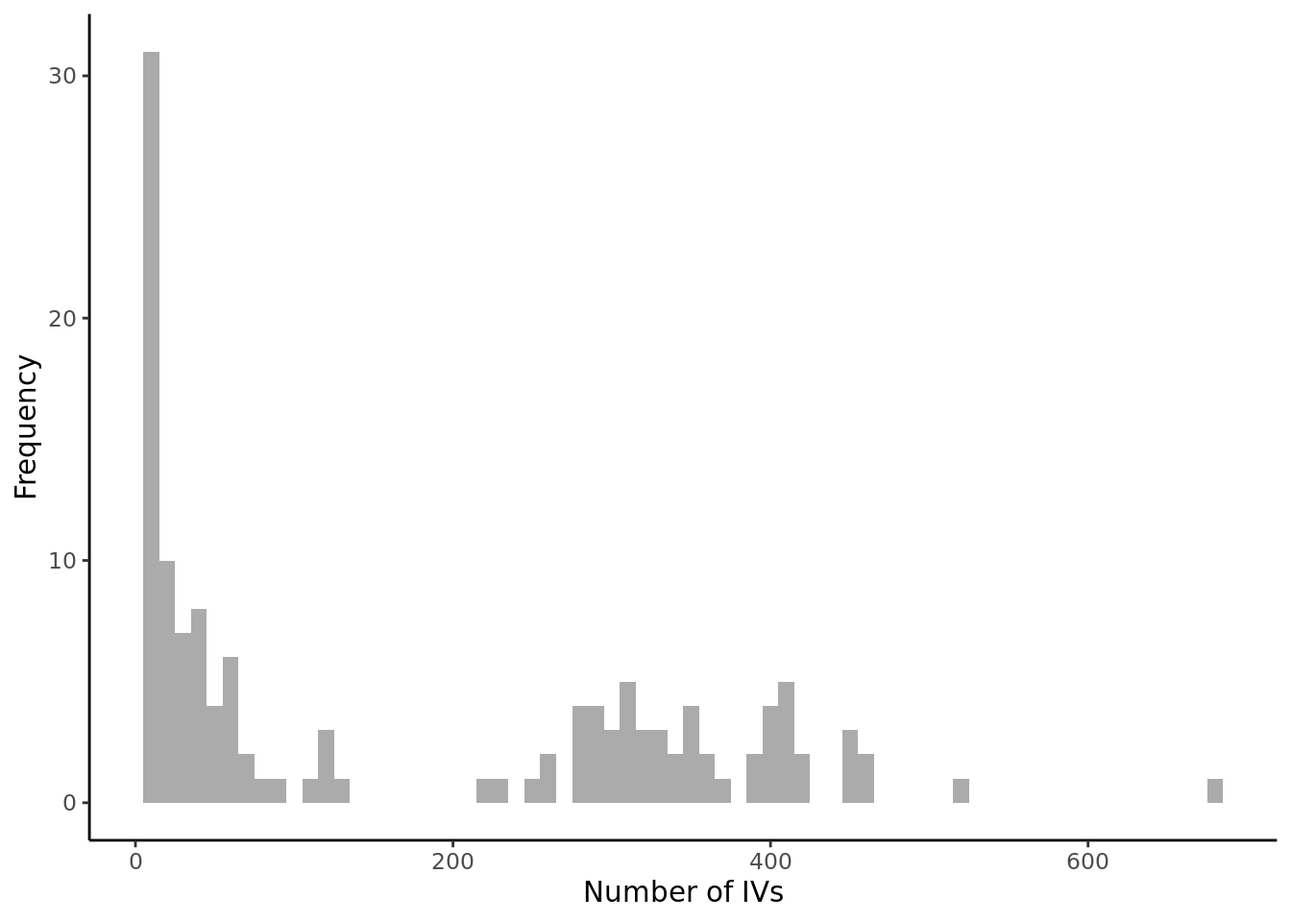
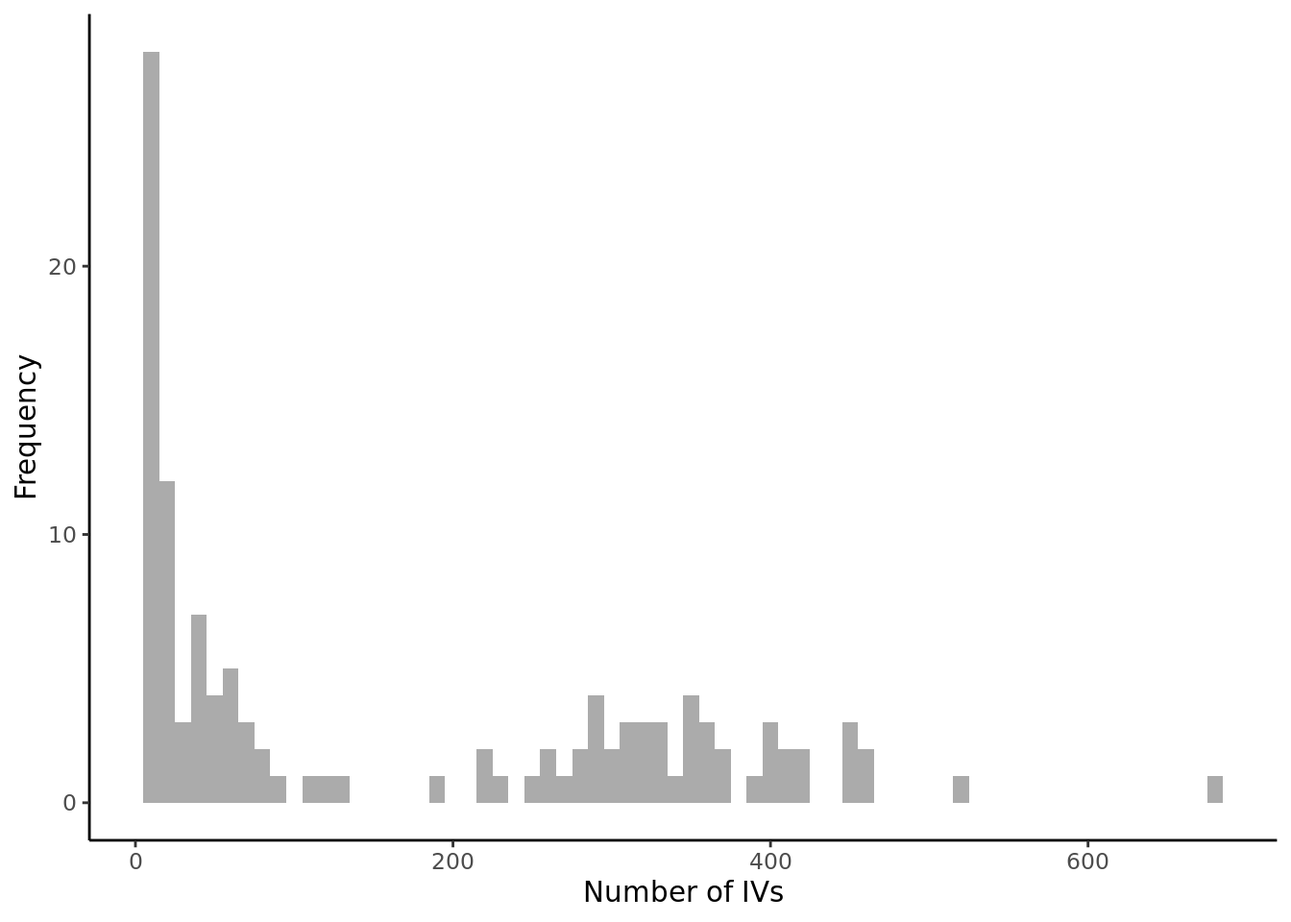
Build site.

diff --git a/docs/final_phenotype_list.html b/docs/final_phenotype_list.html
@@ -15,7 +15,7 @@
 
 <title>Final phenotype list</title>
 
-<script src="site_libs/jquery-3.5.1/jquery.min.js"></script>
+<script src="site_libs/jquery-3.6.0/jquery-3.6.0.min.js"></script>
 <meta name="viewport" content="width=device-width, initial-scale=1" />
 <link href="site_libs/bootstrap-3.3.5/css/flatly.min.css" rel="stylesheet" />
 <script src="site_libs/bootstrap-3.3.5/js/bootstrap.min.js"></script>
@@ -397,7 +397,7 @@ div.tocify {
 <div class="tab-content">
 <div id="summary" class="tab-pane fade in active">
   <p>
-<strong>Last updated:</strong> 2021-09-14
+<strong>Last updated:</strong> 2022-04-20
 </p>
   <p>
 <strong>Checks:</strong> <span class="glyphicon glyphicon-ok text-success" aria-hidden="true"></span> 7 <span class="glyphicon glyphicon-exclamation-sign text-danger" aria-hidden="true"></span> 0
@@ -495,10 +495,10 @@ This reproducible <a href="http://rmarkdown.rstudio.com">R Markdown</a> analysis
 <div class="panel panel-default">
 <div class="panel-heading">
 <p class="panel-title">
-<a data-toggle="collapse" data-parent="#workflowr-checks" href="#strongRepositoryversionstrongahrefhttpsgithubcomjennysjaardaproxyMRtree5afdbdc048a5ca1c87d7d67d85fd9978055ba868targetblank5afdbdca"> <span class="glyphicon glyphicon-ok text-success" aria-hidden="true"></span> <strong>Repository version:</strong> <a href="https://github.com/jennysjaarda/proxyMR/tree/5afdbdc048a5ca1c87d7d67d85fd9978055ba868" target="_blank">5afdbdc</a> </a>
+<a data-toggle="collapse" data-parent="#workflowr-checks" href="#strongRepositoryversionstrongahrefhttpsgithubcomjennysjaardaproxyMRtree49861482c129feb54e1241603a9bccdcc2283c78targetblank4986148a"> <span class="glyphicon glyphicon-ok text-success" aria-hidden="true"></span> <strong>Repository version:</strong> <a href="https://github.com/jennysjaarda/proxyMR/tree/49861482c129feb54e1241603a9bccdcc2283c78" target="_blank">4986148</a> </a>
 </p>
 </div>
[2 lines of base64/hex data omitted]
 <div class="panel-body">
   
 <p>
@@ -506,7 +506,7 @@ Great! You are using Git for version control. Tracking code development and conn
 </p>
 
 <p>
-The results in this page were generated with repository version <a href="https://github.com/jennysjaarda/proxyMR/tree/5afdbdc048a5ca1c87d7d67d85fd9978055ba868" target="_blank">5afdbdc</a>. See the <em>Past versions</em> tab to see a history of the changes made to the R Markdown and HTML files.
+The results in this page were generated with repository version <a href="https://github.com/jennysjaarda/proxyMR/tree/49861482c129feb54e1241603a9bccdcc2283c78" target="_blank">4986148</a>. See the <em>Past versions</em> tab to see a history of the changes made to the R Markdown and HTML files.
 </p>
 
 <p>
@@ -517,17 +517,20 @@ Note that you need to be careful to ensure that all relevant files for the analy
 Ignored files:
     Ignored:    .Rhistory
     Ignored:    .Rproj.user/
-    Ignored:    FP_data.RData
     Ignored:    _targets/
+    Ignored:    analysis/_site.yml_cp
     Ignored:    analysis/bgenie_GWAS/
     Ignored:    analysis/data_setup/
+    Ignored:    analysis/download_Neale_list.csv
     Ignored:    analysis/process_Neale.out
     Ignored:    analysis/traitMR/
+    Ignored:    data/Neale_SGG_directory_11_02_2022.csv
     Ignored:    data/Neale_SGG_directory_12_07_2021.csv
     Ignored:    data/Neale_SGG_directory_15_07_2021.csv
+    Ignored:    data/PHESANT_file_directory_05_10_2021.txt
+    Ignored:    data/UKBB_pheno_directory_05_10_2021.csv
     Ignored:    data/processed/
     Ignored:    data/raw/
-    Ignored:    household_MR_exhaustive_summary.rds
     Ignored:    output/figures/
     Ignored:    output/tables/traitMR/
     Ignored:    proxyMR_comparison.RData
@@ -674,20 +677,14 @@ Ignored files:
     Ignored:    proxymr_9_clustermq.out
     Ignored:    renv/library/
     Ignored:    renv/staging/
-    Ignored:    traits_corr2_update.rds
-
-Untracked files:
-    Untracked:  Rplots.pdf
-    Untracked:  analysis/figures_scratch.Rmd
-    Untracked:  analysis/group_meeting_pres_figures_080921.Rmd
-    Untracked:  analysis/latex_test2.Rmd
-    Untracked:  output/tables/household_correlations.final_filter.csv
 
 Unstaged changes:
-    Modified:   analysis/update_meeting_06_09_2021.Rmd
-    Modified:   analysis/update_meeting_25_08_2021.Rmd
-    Modified:   output/tables/define_Neale_categories.csv
-    Modified:   output/tables/define_Neale_categories_filled.csv
+    Modified:   analysis/AM_MR_summary.Rmd
+    Modified:   output/tables/household_correlations.final_filter.csv
+    Modified:   renv.lock
+
+Staged changes:
+    Modified:   analysis/manuscript.Rmd
 
 </code></pre>
 
@@ -730,6 +727,23 @@ Message
 <tbody>
 <tr>
 <td>
+html
+</td>
+<td>
+<a href="https://rawcdn.githack.com/jennysjaarda/proxyMR/70b6430a77f90eeb818d8801626c6291c5441b34/docs/final_phenotype_list.html" target="_blank">70b6430</a>
+</td>
+<td>
+Jenny Sjaarda
+</td>
+<td>
+2021-09-14
+</td>
+<td>
+Build site.
+</td>
+</tr>
+<tr>
+<td>
 Rmd
 </td>
 <td>
@@ -763,10 +777,10 @@ update some docs
 
 
 
-<p>After <a href="phenotype_selection.html">phenotype selection</a>, 131 traits remained for downstream analyses.</p>
+<p>After <a href="phenotype_selection.html">phenotype selection</a>, 118 traits remained for downstream analyses.</p>
 <p>The final set of traits and some basic properties of interest can be seen in the table below.</p>
 <div id="htmlwidget-3b7a1c78308eb781be0a" style="width:100%;height:auto;" class="datatables html-widget"></div>
-<script type="application/json" data-for="htmlwidget-3b7a1c78308eb781be0a">{"x":{"filter":"none","data":[["1","2","3","4","5","6","7","8","9","10","11","12","13","14","15","16","17","18","19","20","21","22","23","24","25","26","27","28","29","30","31","32","33","34","35","36","37","38","39","40","41","42","43","44","45","46","47","48","49","50","51","52","53","54","55","56","57","58","59","60","61","62","63","64","65","66","67","68","69","70","71","72","73","74","75","76","77","78","79","80","81","82","83","84","85","86","87","88","89","90","91","92","93","94","95","96","97","98","99","100","101","102","103","104","105","106","107","108","109","110","111","112","113","114","115","116","117","118","119","120","121","122","123","124","125","126","127","128","129","130","131"],["100630","100720","102280","102290","102440","102830","102840","1050","1060","1070","1080","1100","1110","1160","1180","1190","12340_irnt","1239","1249","1289","129_irnt","1299","130_irnt","1309","1319","1329","1339","1349","1369","137","1379","1389","1408","1438_irnt","1458","1478","1488_irnt","1498","1528","1548","1558","1568","1588","1628","1697","20015_irnt","20016_irnt","20023_irnt","20150_irnt","20151_irnt","20153_irnt","20154_irnt","2050","2080","21001_irnt","2149","2178","22146_irnt","2237","22702_irnt","22704_irnt","23099_irnt","23100_irnt","23101_irnt","23102_irnt","23104_irnt","23105_irnt","23106_irnt","23107_irnt","23109_irnt","23110_irnt","23111_irnt","23112_irnt","23113_irnt","23114_irnt","23115_irnt","23116_irnt","23117_irnt","23118_irnt","23119_irnt","23120_irnt","23121_irnt","23122_irnt","23123_irnt","23124_irnt","23125_irnt","23126_irnt","23128_irnt","23129_irnt","23130_irnt","2966_irnt","2976_irnt","30000_irnt","30010_irnt","30020_irnt","30030_irnt","30040_irnt","30050_irnt","30060_irnt","30070_irnt","30120_irnt","30140_irnt","30160","30220_irnt","30240_irnt","30250_irnt","30260_irnt","30270_irnt","30280_irnt","30290_irnt","30300_irnt","3062_irnt","3063_irnt","400_irnt","404_irnt","4080_irnt","4290_irnt","46_irnt","47_irnt","49_irnt","50_irnt","738","806","816","845","864","874_irnt","884","904","924","943"],["Rose wine intake","Fortified wine intake","Milk chocolate intake","Dark chocolate intake","Unsalted nuts intake","Soft cheese intake","Blue cheese intake","Time spend outdoors in summer","Time spent outdoors in winter","Time spent watching television (TV)","Time spent using computer","Drive faster than motorway speed limit","Length of mobile phone use","Sleep duration","Morning/evening person (chronotype)","Nap during day","QRS duration","Current tobacco smoking","Past tobacco smoking","Cooked vegetable intake","Place of birth in UK - north co-ordinate","Salad / raw vegetable intake","Place of birth in UK - east co-ordinate","Fresh fruit intake","Dried fruit intake","Oily fish intake","Non-oily fish intake","Processed meat intake","Beef intake","Number of treatments/medications taken","Lamb/mutton intake","Pork intake","Cheese intake","Bread intake","Cereal intake","Salt added to food","Tea intake","Coffee intake","Water intake","Variation in diet","Alcohol intake frequency.","Average weekly red wine intake","Average weekly beer plus cider intake","Alcohol intake versus 10 years previously","Comparative height size at age 10","Sitting height","Fluid intelligence score","Mean time to correctly identify matches","Forced expiratory volume in 1-second (FEV1), Best measure","Forced vital capacity (FVC), Best measure","Forced expiratory volume in 1-second (FEV1), predicted","Forced expiratory volume in 1-second (FEV1), predicted percentage","Frequency of depressed mood in last 2 weeks","Frequency of tiredness / lethargy in last 2 weeks","Body mass index (BMI)","Lifetime number of sexual partners","Overall health rating","Age hayfever or allergic rhinitis diagnosed by doctor","Plays computer games","Home location - east co-ordinate (rounded)","Home location - north co-ordinate (rounded)","Body fat percentage","Whole body fat mass","Whole body fat-free mass","Whole body water mass","Body mass index (BMI)","Basal metabolic rate","Impedance of whole body","Impedance of leg (right)","Impedance of arm (right)","Impedance of arm (left)","Leg fat percentage (right)","Leg fat mass (right)","Leg fat-free mass (right)","Leg predicted mass (right)","Leg fat percentage (left)","Leg fat mass (left)","Leg fat-free mass (left)","Leg predicted mass (left)","Arm fat percentage (right)","Arm fat mass (right)","Arm fat-free mass (right)","Arm predicted mass (right)","Arm fat percentage (left)","Arm fat mass (left)","Arm fat-free mass (left)","Arm predicted mass (left)","Trunk fat mass","Trunk fat-free mass","Trunk predicted mass","Age high blood pressure diagnosed","Age diabetes diagnosed","White blood cell (leukocyte) count","Red blood cell (erythrocyte) count","Haemoglobin concentration","Haematocrit percentage","Mean corpuscular volume","Mean corpuscular haemoglobin","Mean corpuscular haemoglobin concentration","Red blood cell (erythrocyte) distribution width","Lymphocyte count","Neutrophill count","Basophill count","Basophill percentage","Reticulocyte percentage","Reticulocyte count","Mean reticulocyte volume","Mean sphered cell volume","Immature reticulocyte fraction","High light scatter reticulocyte percentage","High light scatter reticulocyte count","Forced vital capacity (FVC)","Forced expiratory volume in 1-second (FEV1)","Time to complete round","Duration to first press of snap-button in each round","Systolic blood pressure, automated reading","Duration screen displayed","Hand grip strength (left)","Hand grip strength (right)","Hip circumference","Standing height","Average total household income before tax","Job involves mainly walking or standing","Job involves heavy manual or physical work","Age completed full time education","Number of days/week walked 10+ minutes","Duration of walks","Number of days/week of moderate physical activity 10+ minutes","Number of days/week of vigorous physical activity 10+ minutes","Usual walking pace","Frequency of stair climbing in last 4 weeks"],["ordinal","ordinal","ordinal","ordinal","ordinal","ordinal","ordinal","ordinal","ordinal","ordinal","ordinal","ordinal","ordinal","ordinal","ordinal","ordinal","continuous_irnt","ordinal","ordinal","ordinal","continuous_irnt","ordinal","continuous_irnt","ordinal","ordinal","ordinal","ordinal","ordinal","ordinal","ordinal","ordinal","ordinal","ordinal","continuous_irnt","ordinal","ordinal","continuous_irnt","ordinal","ordinal","ordinal","ordinal","ordinal","ordinal","ordinal","ordinal","continuous_irnt","continuous_irnt","continuous_irnt","continuous_irnt","continuous_irnt","continuous_irnt","continuous_irnt","ordinal","ordinal","continuous_irnt","ordinal","ordinal","continuous_irnt","ordinal","continuous_irnt","continuous_irnt","continuous_irnt","continuous_irnt","continuous_irnt","continuous_irnt","continuous_irnt","continuous_irnt","continuous_irnt","continuous_irnt","continuous_irnt","continuous_irnt","continuous_irnt","continuous_irnt","continuous_irnt","continuous_irnt","continuous_irnt","continuous_irnt","continuous_irnt","continuous_irnt","continuous_irnt","continuous_irnt","continuous_irnt","continuous_irnt","continuous_irnt","continuous_irnt","continuous_irnt","continuous_irnt","continuous_irnt","continuous_irnt","continuous_irnt","continuous_irnt","continuous_irnt","continuous_irnt","continuous_irnt","continuous_irnt","continuous_irnt","continuous_irnt","continuous_irnt","continuous_irnt","continuous_irnt","continuous_irnt","continuous_irnt","ordinal","continuous_irnt","continuous_irnt","continuous_irnt","continuous_irnt","continuous_irnt","continuous_irnt","continuous_irnt","continuous_irnt","continuous_irnt","continuous_irnt","continuous_irnt","continuous_irnt","continuous_irnt","continuous_irnt","continuous_irnt","continuous_irnt","continuous_irnt","continuous_irnt","ordinal","ordinal","ordinal","ordinal","ordinal","continuous_irnt","ordinal","ordinal","ordinal","ordinal"],["diet","diet","diet","diet","diet","diet","diet","lifestyle","lifestyle","lifestyle","lifestyle","lifestyle","lifestyle","lifestyle","lifestyle","lifestyle","disease_proxy","lifestyle","lifestyle","diet","lifestyle","diet","lifestyle","diet","diet","diet","diet","diet","diet","disease_proxy","diet","diet","diet","diet","diet","diet","diet","diet","diet","diet","lifestyle","lifestyle","lifestyle","lifestyle","body","body","lifestyle","lifestyle","disease_proxy","disease_proxy","disease_proxy","disease_proxy","disease_proxy","disease_proxy","body","lifestyle","disease_proxy","disease","lifestyle","lifestyle","lifestyle","body","body","body","body","body","body","body","body","body","body","body","body","body","body","body","body","body","body","body","body","body","body","body","body","body","body","body","body","body","disease_proxy","disease_proxy","disease_proxy","disease_proxy","disease_proxy","diet","disease_proxy","disease_proxy","disease_proxy","disease_proxy","disease_proxy","disease_proxy","disease_proxy","disease_proxy","disease_proxy","disease_proxy","disease_proxy","disease_proxy","disease_proxy","disease_proxy","disease_proxy","disease_proxy","disease_proxy","lifestyle","lifestyle","disease_proxy","lifestyle","body","body","body","body","lifestyle","lifestyle","lifestyle","lifestyle","lifestyle","lifestyle","lifestyle","lifestyle","lifestyle","lifestyle"],["8266","8263","8266","8262","8266","8266","8265","63421","48288","69054","44952","62981","73227","74394","59982","74999","4337","74967","67775","71947","70512","66618","70512","70065","62958","74380","74578","74862","74640","75023","74332","74404","72053","72442","69566","75023","71223","65309","63582","74710","74961","47796","47883","66977","72928","74763","23514","74195","44547","44547","8551","8551","69172","70811","74679","55186","74646","463","74991","75030","75030","72713","72624","72766","72773","72773","72771","72762","72772","72764","72768","72772","72771","72770","72769","72767","72766","72755","72751","72750","72746","72739","72737","72732","72720","72718","72713","72695","72658","72640","5359","259","71229","71230","71230","71230","71229","71229","71229","71229","71093","71093","71093","71094","69894","69894","69894","69894","69894","69894","69894","63050","63050","72750","74212","69456","24470","74516","74519","74836","74795","57142","30873","30878","43220","72429","54753","67886","68049","74257","73883"],["0.0922840196558126","0.117490113415998","0.016448677911766","0.0122090287587049","0.0273976995326816","0.0546145108132133","0.0302172689201366","0.0440683222461897","0.0120051627350722","0.129825001160989","0.0125246024046728","0.0187449993281087","0.0625707302134609","0.0127972727883262","0.01425408442136","0.0104574353443531","0.0134064379178707","0.0636624641341572","0.0383202867752661","0.0748037860421296","0.352473183620446","0.0418105785288404","0.225352581182096","0.0281029415049592","0.0759092214206806","0.123070394530199","0.0852869788808505","0.0378878019518565","0.168419493974539","0.033551042889334","0.191519972984346","0.142826364736203","0.0747211020577854","0.0212530071271025","0.103270437138124","0.0528767417660657","0.0650138361750729","0.0334613827899832","0.0174435467901","0.0103177556218652","0.203123146225791","0.156427242826228","0.0273032385764867","0.0648581910332382","0.0141027357765363","0.0904659619144025","0.0401023930142044","0.0132159343461819","0.0265670457094765","0.0649999449419508","0.159486660443171","0.0146269683049709","0.0110949575262655","0.0138952453280985","0.0532009744433723","0.198035049644089","0.0223562096868708","0.0204638169733123","0.0365904923896149","0.977793232140547","0.981565376386421","0.0862932917570949","0.0327713034522631","0.29526834350323","0.29391301202521","0.0526905979431931","0.245757929388727","0.149838284013783","0.0131211592746428","0.229960581564538","0.226871771736116","0.262013668131244","0.0455950935166192","0.251587603289365","0.258046697196772","0.276074940531636","0.0544875850980536","0.251698761864576","0.258264238755764","0.107622830199054","0.0281970583422085","0.30911824088257","0.311923156630442","0.114298096231511","0.0278932036249803","0.291706457370028","0.294895411774078","0.0579630640038957","0.310296563759527","0.312891210601963","0.0434473980724707","0.0979116988534587","0.0248025544171646","0.033795274610522","0.0934064689546379","0.0563069866077741","0.0211184511959847","0.0161644371907621","0.205196824250338","0.0107097251874439","0.0157318936970288","0.0151287214851749","0.220149529744413","0.0104615919302693","0.0321747064983078","0.023004561391709","0.0399750378840475","0.0853116406106133","0.0387788311200344","0.0264611481188514","0.0215202418421699","0.054510347693815","0.0225419373910677","0.0158938650290012","0.0133566202689238","0.0173848889412798","0.0239575118599313","0.185612968103578","0.179894822761125","0.0349104652048477","0.141196564794588","0.778734939731751","0.0198111014378687","0.0160063292727281","0.104070759384423","0.0343353867950446","0.0283178015919158","0.0121852720425099","0.0230259771453837","0.0106746216537824","0.165005837731399"],[0.303782849509008,0.342768308651774,0.128252399243702,0.110494473883108,0.165522504610949,0.233697477122055,0.1738311506035,0.209924563227341,0.109568073520858,0.360312366095016,0.111913370088979,0.136912378286657,0.250141420427447,0.113125031661106,0.119390470395924,0.102261602492593,0.115786173258601,0.252314217067048,0.195755681335858,0.273502808106479,0.593694520456814,0.204476352003943,0.474713156740042,0.16763931968652,0.275516281589093,0.350813902988748,0.292039344748016,0.194647892235843,0.410389441840965,0.183169437650865,0.437629949825587,0.377923755189063,0.273351608844333,0.145784111367126,0.321357180000889,0.229949433063153,0.254978109207581,0.182924527578953,0.132074020117887,0.101576353655096,0.450691852850471,0.395508840389476,0.16523691650623,0.254672713562404,0.118754940008979,0.300775600596861,0.200255818927202,0.114960577356683,0.162994005133552,0.254950867701898,0.399357810044039,0.120942003890174,0.105332604288822,0.117878095200502,0.23065336425765,0.445011291591673,0.149519930734571,0.143051798217682,0.191286414545348,0.988834279412151,0.99073981265841,0.293757198647276,0.181028460337769,0.543385998626418,0.542137447540022,0.229544326750179,0.495739779913542,0.387089503879636,0.114547628847754,0.479542054010426,0.476310583271164,0.51187270696067,0.21353007637478,0.501585090776595,0.507982969396388,0.525428340053747,0.233425759285589,0.501695885835808,0.508197047173401,0.328059187036507,0.167919797350427,0.555984029341284,0.55850081166498,0.338080014540214,0.167012585229318,0.54009856264392,0.543042734758581,0.240755195175298,0.557042694736702,0.55936679433263,0.208440394531556,0.312908451233677,0.157488267554014,0.183834911294134,0.305624719148563,0.237290932417937,0.145321888220545,0.127139439949852,0.452986560783361,0.103487802119109,0.125426845998091,0.122998867820704,0.469200948149525,0.102281923770866,0.179373093016505,0.151672546598615,0.199937584971029,0.292081564996172,0.196923414351962,0.162668829585915,0.146697790856474,0.233474511871885,0.150139726225499,0.126070873039736,0.115570845237559,0.131851768821202,0.1547821432205,0.430828235035238,0.424140098034983,0.186843424301868,0.375761313594931,0.882459596656839,0.140751914508715,0.1265161225802,0.322599999045913,0.185298102513341,0.168278939834775,0.110386919707499,0.151743128824285,0.103318060636959,0.406209105918859],["11","32","8","12","6","8","21","32","5","76","44","16","19","45","89","60","6","19","62","6","119","11","65","32","27","38","7","9","9","38","15","5","32","16","23","61","26","27","26","9","57","15","13","9","409","521","41","56","228","284","256","61","5","24","343","40","68","11","25","12","19","295","322","458","459","338","449","395","362","349","357","286","306","423","423","285","308","412","410","289","307","404","400","293","303","410","403","326","453","452","9","8","351","387","313","283","404","415","112","337","350","313","43","121","308","329","366","375","257","325","332","293","266","54","66","221","10","119","133","308","684","52","8","16","39","16","7","9","8","46","6"],[9,27,6,11,6,6,15,32,5,76,44,14,19,44,89,60,6,18,61,6,118,11,65,32,27,38,7,9,9,37,15,5,32,16,23,60,25,26,26,9,55,15,9,8,409,521,41,56,228,284,256,60,5,24,343,40,68,11,25,12,19,293,322,458,457,338,449,392,360,346,354,285,306,422,422,284,308,412,410,288,306,404,400,291,302,410,403,325,452,451,9,8,349,386,309,277,404,415,112,334,350,311,43,121,305,326,365,374,254,323,330,293,265,54,66,219,10,119,133,305,684,52,8,16,39,16,7,8,8,46,6]],"container":"<table class=\"display\">\n  <thead>\n    <tr>\n      <th> <\/th>\n      <th>Neale_pheno_ID<\/th>\n      <th>description<\/th>\n      <th>variable_type<\/th>\n      <th>category<\/th>\n      <th>N_pairs<\/th>\n      <th>r2<\/th>\n      <th>r<\/th>\n      <th>num_IVs<\/th>\n      <th>num_IVs_pass_het<\/th>\n    <\/tr>\n  <\/thead>\n<\/table>","options":{"columnDefs":[{"targets":6,"render":"function(data, type, row, meta) {\n    return type !== 'display' ? data : DTWidget.formatRound(data, 3, 3, \",\", \".\");\n  }"},{"targets":7,"render":"function(data, type, row, meta) {\n    return type !== 'display' ? data : DTWidget.formatRound(data, 3, 3, \",\", \".\");\n  }"},{"className":"dt-right","targets":[7,9]},{"orderable":false,"targets":0}],"order":[],"autoWidth":false,"orderClasses":false}},"evals":["options.columnDefs.0.render","options.columnDefs.1.render"],"jsHooks":[]}</script>
+<script type="application/json" data-for="htmlwidget-3b7a1c78308eb781be0a">{"x":{"filter":"none","data":[["1","2","3","4","5","6","7","8","9","10","11","12","13","14","15","16","17","18","19","20","21","22","23","24","25","26","27","28","29","30","31","32","33","34","35","36","37","38","39","40","41","42","43","44","45","46","47","48","49","50","51","52","53","54","55","56","57","58","59","60","61","62","63","64","65","66","67","68","69","70","71","72","73","74","75","76","77","78","79","80","81","82","83","84","85","86","87","88","89","90","91","92","93","94","95","96","97","98","99","100","101","102","103","104","105","106","107","108","109","110","111","112","113","114","115","116","117","118"],["102_irnt","1050","1060","1070","1080","1100","1110","1160","1180","1190","1239","1249","129_irnt","130_irnt","137","1618","1697","1737","20003_1140861958","20003_2038460150","20015_irnt","20016_irnt","20023_irnt","20116_0","20116_1","20116_2","20128","20150_irnt","20151_irnt","20153_irnt","20154_irnt","20160","2050","2080","21001_irnt","21002_irnt","2149","2178","22146_irnt","2237","22506_114","2267","22702_irnt","22704_irnt","23099_irnt","23100_irnt","23101_irnt","23102_irnt","23105_irnt","23106_irnt","23107_irnt","23109_irnt","23111_irnt","23112_irnt","23113_irnt","23114_irnt","23119_irnt","23120_irnt","23121_irnt","23122_irnt","23127_irnt","23128_irnt","23129_irnt","23130_irnt","2492","2887","2966_irnt","2976_irnt","2986","30000_irnt","30040_irnt","30050_irnt","30060_irnt","30070_irnt","30120_irnt","30130_irnt","30140_irnt","30160","30190_irnt","30240_irnt","30250_irnt","30260_irnt","30270_irnt","30280_irnt","30290_irnt","30300_irnt","3062_irnt","3063_irnt","400_irnt","404_irnt","4079_irnt","4080_irnt","4290_irnt","47_irnt","48_irnt","49_irnt","50_irnt","6142_4","6147_1","6154_1","6154_3","6160_1","6160_100","6160_3","6164_1","6164_100","6164_2","6164_3","738","806","816","845","864","874_irnt","884","904","924","943"],["Pulse rate, automated reading","Time spend outdoors in summer","Time spent outdoors in winter","Time spent watching television (TV)","Time spent using computer","Drive faster than motorway speed limit","Length of mobile phone use","Sleep duration","Morning/evening person (chronotype)","Nap during day","Current tobacco smoking","Past tobacco smoking","Place of birth in UK - north co-ordinate","Place of birth in UK - east co-ordinate","Number of treatments/medications taken","Alcohol usually taken with meals","Comparative height size at age 10","Childhood sunburn occasions","Treatment/medication code: simvastatin","Treatment/medication code: paracetamol","Sitting height","Fluid intelligence score","Mean time to correctly identify matches","Smoking status: Never","Smoking status: Previous","Smoking status: Current","Number of fluid intelligence questions attempted within time limit","Forced expiratory volume in 1-second (FEV1), Best measure","Forced vital capacity (FVC), Best measure","Forced expiratory volume in 1-second (FEV1), predicted","Forced expiratory volume in 1-second (FEV1), predicted percentage","Ever smoked","Frequency of depressed mood in last 2 weeks","Frequency of tiredness / lethargy in last 2 weeks","Body mass index (BMI)","Weight","Lifetime number of sexual partners","Overall health rating","Age hayfever or allergic rhinitis diagnosed by doctor","Plays computer games","Tobacco smoking: Never smoked","Use of sun/uv protection","Home location - east co-ordinate (rounded)","Home location - north co-ordinate (rounded)","Body fat percentage","Whole body fat mass","Whole body fat-free mass","Whole body water mass","Basal metabolic rate","Impedance of whole body","Impedance of leg (right)","Impedance of arm (right)","Leg fat percentage (right)","Leg fat mass (right)","Leg fat-free mass (right)","Leg predicted mass (right)","Arm fat percentage (right)","Arm fat mass (right)","Arm fat-free mass (right)","Arm predicted mass (right)","Trunk fat percentage","Trunk fat mass","Trunk fat-free mass","Trunk predicted mass","Taking other prescription medications","Number of cigarettes previously smoked daily","Age high blood pressure diagnosed","Age diabetes diagnosed","Started insulin within one year diagnosis of diabetes","White blood cell (leukocyte) count","Mean corpuscular volume","Mean corpuscular haemoglobin","Mean corpuscular haemoglobin concentration","Red blood cell (erythrocyte) distribution width","Lymphocyte count","Monocyte count","Neutrophill count","Basophill count","Monocyte percentage","Reticulocyte percentage","Reticulocyte count","Mean reticulocyte volume","Mean sphered cell volume","Immature reticulocyte fraction","High light scatter reticulocyte percentage","High light scatter reticulocyte count","Forced vital capacity (FVC)","Forced expiratory volume in 1-second (FEV1)","Time to complete round","Duration to first press of snap-button in each round","Diastolic blood pressure, automated reading","Systolic blood pressure, automated reading","Duration screen displayed","Hand grip strength (right)","Waist circumference","Hip circumference","Standing height","Current employment status: Unable to work because of sickness or disability","Reason for glasses/contact lenses: For short-sightedness, i.e. only or mainly for distance viewing such as driving, cinema etc (called 'myopia')","Medication for pain relief, constipation, heartburn: Aspirin","Medication for pain relief, constipation, heartburn: Paracetamol","Leisure/social activities: Sports club or gym","Leisure/social activities: None of the above","Leisure/social activities: Religious group","Types of physical activity in last 4 weeks: Walking for pleasure (not as a means of transport)","Types of physical activity in last 4 weeks: None of the above","Types of physical activity in last 4 weeks: Other exercises (eg: swimming, cycling, keep fit, bowling)","Types of physical activity in last 4 weeks: Strenuous sports","Average total household income before tax","Job involves mainly walking or standing","Job involves heavy manual or physical work","Age completed full time education","Number of days/week walked 10+ minutes","Duration of walks","Number of days/week of moderate physical activity 10+ minutes","Number of days/week of vigorous physical activity 10+ minutes","Usual walking pace","Frequency of stair climbing in last 4 weeks"],["continuous_irnt","ordinal","ordinal","ordinal","ordinal","ordinal","ordinal","ordinal","ordinal","ordinal","ordinal","ordinal","continuous_irnt","continuous_irnt","ordinal","binary","ordinal","ordinal","binary","binary","continuous_irnt","continuous_irnt","continuous_irnt","binary","binary","binary","ordinal","continuous_irnt","continuous_irnt","continuous_irnt","continuous_irnt","binary","ordinal","ordinal","continuous_irnt","continuous_irnt","ordinal","ordinal","continuous_irnt","ordinal","binary","ordinal","continuous_irnt","continuous_irnt","continuous_irnt","continuous_irnt","continuous_irnt","continuous_irnt","continuous_irnt","continuous_irnt","continuous_irnt","continuous_irnt","continuous_irnt","continuous_irnt","continuous_irnt","continuous_irnt","continuous_irnt","continuous_irnt","continuous_irnt","continuous_irnt","continuous_irnt","continuous_irnt","continuous_irnt","continuous_irnt","binary","ordinal","continuous_irnt","continuous_irnt","binary","continuous_irnt","continuous_irnt","continuous_irnt","continuous_irnt","continuous_irnt","continuous_irnt","continuous_irnt","continuous_irnt","ordinal","continuous_irnt","continuous_irnt","continuous_irnt","continuous_irnt","continuous_irnt","continuous_irnt","continuous_irnt","continuous_irnt","continuous_irnt","continuous_irnt","continuous_irnt","continuous_irnt","continuous_irnt","continuous_irnt","continuous_irnt","continuous_irnt","continuous_irnt","continuous_irnt","continuous_irnt","binary","binary","binary","binary","binary","binary","binary","binary","binary","binary","binary","ordinal","ordinal","ordinal","ordinal","ordinal","continuous_irnt","ordinal","ordinal","ordinal","ordinal"],["disease_proxy","lifestyle","lifestyle","lifestyle","lifestyle","lifestyle","lifestyle","lifestyle","lifestyle","lifestyle","lifestyle","lifestyle","lifestyle","lifestyle","disease_proxy","lifestyle","body","lifestyle","disease_proxy","disease_proxy","body","lifestyle","lifestyle","lifestyle","lifestyle","lifestyle","disease_proxy","disease_proxy","disease_proxy","disease_proxy","disease_proxy","lifestyle","disease_proxy","disease_proxy","body","body","lifestyle","disease_proxy","disease","lifestyle","lifestyle","lifestyle","lifestyle","lifestyle","body","body","body","body","body","body","body","body","body","body","body","body","body","body","body","body","body","body","body","body","disease_proxy","lifestyle","disease_proxy","disease_proxy","disease_proxy","disease_proxy","disease_proxy","disease_proxy","disease_proxy","disease_proxy","disease_proxy","disease_proxy","disease_proxy","disease_proxy","disease_proxy","disease_proxy","disease_proxy","disease_proxy","disease_proxy","disease_proxy","disease_proxy","disease_proxy","disease_proxy","disease_proxy","lifestyle","lifestyle","disease_proxy","disease_proxy","lifestyle","body","body","body","body","lifestyle","disease_proxy","disease_proxy","disease_proxy","lifestyle","lifestyle","lifestyle","lifestyle","lifestyle","lifestyle","lifestyle","lifestyle","lifestyle","lifestyle","lifestyle","lifestyle","lifestyle","lifestyle","lifestyle","lifestyle","lifestyle"],["47831","43738","33234","47469","30828","43546","50437","51260","41270","51637","51623","46791","48434","48434","51657","17418","50242","28796","51657","51657","51471","16456","51104","51321","51321","51321","16456","30795","30795","5895","5895","51333","47715","48805","51409","51449","38108","51386","349","51638","7034","51295","51664","51664","50072","49999","50110","50115","50113","50106","50114","50107","50114","50114","50112","50112","50097","50095","50092","50090","50068","50064","50040","50029","51455","4584","3642","185","198","49082","49083","49083","49083","49083","48987","48987","48987","48987","48988","48142","48142","48142","48142","48142","48142","48142","43554","43554","50109","51113","47831","47830","17127","51308","51538","51522","51492","51423","51600","50699","50699","51412","51412","51412","51276","51276","51276","51276","39468","21205","21210","28972","49919","37778","46947","47037","51136","50915"],["0.0134414992446955","0.0493976382479704","0.0171550285982983","0.134345569798101","0.0233357367259547","0.0703722243175551","0.0699522007432617","0.0127638775064507","0.0142002522260384","0.0152770097796596","0.0654221855585289","0.0529677036495116","0.338771809845302","0.221960101592589","0.0333467477375749","0.454953137227972","0.0139733586604651","0.0123479887617988","0.010535924046804","0.012062760028577","0.0300486630392958","0.0418190334986941","0.0156662011714267","0.0530040780691594","0.0391954559260023","0.0568811126736348","0.0102221030227163","0.0712689204356375","0.0667887789136103","0.280450703993975","0.0137484844773983","0.0227663259286701","0.0131446949767734","0.0184297414023076","0.0709538018127409","0.0553579145179664","0.234483885969829","0.0234132073354699","0.0268649769599435","0.037354901083859","0.0594462519096301","0.0277031477449659","0.977540768122392","0.980606869650502","0.0694040354601717","0.0673972010528403","0.0390415901229708","0.0389083102012569","0.0455212209103576","0.0188051664902059","0.0189164980922855","0.0148934375982977","0.0765498675848762","0.0701166625720051","0.0429950243538965","0.0429944382880218","0.0548874603698712","0.0586295835593885","0.033096131120358","0.0333813350656891","0.0545098719352708","0.0601407233691411","0.0314174405239562","0.0312885045521211","0.0136338985013193","0.0213856039598047","0.0514976837069513","0.140711978521012","0.101857887874837","0.023407680612832","0.0225639739015978","0.0208945266507134","0.224583421265949","0.0110901431428461","0.0174768085927451","0.0170679027342823","0.0144168526973144","0.221773255623561","0.0111992932781635","0.0330292188276725","0.0323913005910927","0.0413415700366138","0.0842828518861879","0.0383123566945106","0.0272711650047196","0.0268356768915581","0.0624180405008636","0.0682377460371379","0.0167061773464033","0.0159712885642485","0.0114426285832906","0.0255519123908439","0.0261350725543927","0.024549710686135","0.0786586290228852","0.0411074298068553","0.0644066355289473","0.0117459770884984","0.106921054321257","0.0217856355931832","0.0135719369928351","0.103460205904362","0.101867380948683","0.395883950013624","0.0947411076344482","0.0126228598998778","0.0756714047731591","0.039138384819929","0.783872552336591","0.0221380763066054","0.0247208935008705","0.106824588544147","0.0356100075041823","0.0289856936725732","0.0125073957438714","0.0279875710567026","0.0103167650887173","0.16731688683171"],[0.115937479896259,0.222255794633054,0.130977206407444,0.366531812804975,0.152760389911635,0.265277636293667,0.264484783576034,0.112977331825684,0.119164811190378,0.123600201373863,0.255777609572318,0.230147134784493,0.582041072301003,0.471126417846197,0.182610918998769,0.674502140269378,0.118208961844968,0.111121504497549,0.102644649382245,0.109830596959941,0.173345501929804,0.204497025647548,0.125164696186372,0.230226145494293,0.197978422879874,0.238497615656079,0.101104416435269,0.266962395171375,0.258435250911346,0.529575966216345,0.117253931607423,0.150885141510588,0.114650316077948,0.135756183661399,0.266371548429521,0.235282626893628,0.48423536216372,0.153013748844572,0.163905390271167,0.193274160414317,0.243816020617248,0.166442625985551,0.988706613774982,0.990255961683898,0.263446456533717,0.259609709088162,0.197589448410007,0.1972518953046,0.213357026859575,0.13713193096506,0.137537260741537,0.122038672552178,0.276676467349278,0.264795510860749,0.2073524158381,0.207351002621212,0.234280729830414,0.242135465306899,0.181923421033021,0.182705596700509,0.233473493003533,0.245236056421443,0.177249655920558,0.176885569089514,0.116764286069497,0.146238175452939,0.226931010897478,0.375115953434417,0.319151825742603,0.152995688216472,0.150213094973767,0.144549391734152,0.47390233304548,0.105309748565107,0.132199881213052,0.130644183698634,0.120070199039205,0.470928079034964,0.105826713443079,0.181739425628212,0.179975833352961,0.2033262649945,0.290315090696622,0.195735425241602,0.165139834699928,0.163815984847505,0.249836027227587,0.261223555670498,0.129252378494182,0.126377563531857,0.106970222881373,0.159849655585628,0.161663454603669,0.156683472919562,0.280461457285819,0.202749672766333,0.253784624295774,0.108378859047779,0.326987850418417,0.147599578567092,0.116498656613864,0.321652305921102,0.319166697743801,0.629193094378525,0.307800434753507,0.112351501547055,0.275084359375736,0.197834235712449,0.885365773190149,0.148788696837513,0.157228793485387,0.326840310463913,0.188706140610692,0.170251853653854,0.111836468756267,0.167294862613,0.101571477732271,0.409043869079724],["225","32","5","76","44","16","19","45","89","60","19","62","119","65","38","17","409","71","35","11","521","41","56","82","24","17","5","228","284","256","61","49","5","24","343","376","40","68","11","25","5","34","12","19","295","322","458","459","449","395","362","349","286","306","423","423","289","307","404","400","289","326","453","452","21","5","9","8","14","351","404","415","112","337","350","361","313","43","350","308","329","366","375","257","325","332","293","266","54","66","194","221","10","133","269","308","684","5","17","11","14","8","7","11","8","8","9","7","52","8","16","39","16","7","9","8","46","6"],[221,32,5,76,44,14,19,44,89,60,18,61,118,65,37,17,409,71,31,11,521,41,56,82,24,17,5,228,284,256,60,49,5,24,343,373,40,68,11,25,5,26,12,19,293,322,458,457,449,392,360,346,285,306,422,422,288,306,404,400,287,325,452,451,19,5,9,8,13,349,404,415,112,334,350,361,311,43,350,305,326,365,374,254,323,330,293,265,54,66,192,219,10,133,267,305,684,5,17,5,14,7,6,9,7,8,9,7,52,8,16,39,16,7,8,8,46,6]],"container":"<table class=\"display\">\n  <thead>\n    <tr>\n      <th> <\/th>\n      <th>Neale_pheno_ID<\/th>\n      <th>description<\/th>\n      <th>variable_type<\/th>\n      <th>category<\/th>\n      <th>N_pairs<\/th>\n      <th>r2<\/th>\n      <th>r<\/th>\n      <th>num_IVs<\/th>\n      <th>num_IVs_pass_het<\/th>\n    <\/tr>\n  <\/thead>\n<\/table>","options":{"columnDefs":[{"targets":6,"render":"function(data, type, row, meta) {\n    return type !== 'display' ? data : DTWidget.formatRound(data, 3, 3, \",\", \".\");\n  }"},{"targets":7,"render":"function(data, type, row, meta) {\n    return type !== 'display' ? data : DTWidget.formatRound(data, 3, 3, \",\", \".\");\n  }"},{"className":"dt-right","targets":[7,9]},{"orderable":false,"targets":0}],"order":[],"autoWidth":false,"orderClasses":false}},"evals":["options.columnDefs.0.render","options.columnDefs.1.render"],"jsHooks":[]}</script>
 <hr />
 <p>A few summaries of various properties are show below.</p>
 <table>
@@ -778,12 +792,16 @@ update some docs
 </thead>
 <tbody>
 <tr class="odd">
-<td align="left">continuous_irnt</td>
-<td align="right">76</td>
+<td align="left">binary</td>
+<td align="right">21</td>
 </tr>
 <tr class="even">
+<td align="left">continuous_irnt</td>
+<td align="right">65</td>
+</tr>
+<tr class="odd">
 <td align="left">ordinal</td>
-<td align="right">55</td>
+<td align="right">32</td>
 </tr>
 </tbody>
 </table>
@@ -797,28 +815,109 @@ update some docs
 <tbody>
 <tr class="odd">
 <td align="left">body</td>
-<td align="right">36</td>
+<td align="right">28</td>
 </tr>
 <tr class="even">
-<td align="left">diet</td>
-<td align="right">26</td>
-</tr>
-<tr class="odd">
 <td align="left">disease</td>
 <td align="right">1</td>
 </tr>
-<tr class="even">
-<td align="left">disease_proxy</td>
-<td align="right">32</td>
-</tr>
 <tr class="odd">
+<td align="left">disease_proxy</td>
+<td align="right">40</td>
+</tr>
+<tr class="even">
 <td align="left">lifestyle</td>
-<td align="right">36</td>
+<td align="right">49</td>
 </tr>
 </tbody>
 </table>
 <hr />
-<p><img src="figure/final_phenotype_list.Rmd/IV_freq-1.png" width="672" style="display: block; margin: auto;" /><img src="figure/final_phenotype_list.Rmd/IV_freq-2.png" width="672" style="display: block; margin: auto;" /></p>
+<p><img src="figure/final_phenotype_list.Rmd/IV_freq-1.png" width="672" style="display: block; margin: auto;" /></p>
+<p>
+  <button type="button" class="btn btn-default btn-xs btn-workflowr btn-workflowr-fig"
+  data-toggle="collapse" data-target="#fig-IV_freq-1">
+  
+Past versions of IV_freq-1.png
+</button>
+  </p>
+
+<div id="fig-IV_freq-1" class="collapse">
+  <div class="table-responsive">
+  <table class="table table-condensed table-hover">
+  <thead>
+  <tr>
+  <th>
+Version
+</th>
+  <th>
+Author
+</th>
+  <th>
+Date
+</th>
+  </tr>
+  </thead>
+  <tbody>
+  <tr>
+  <td>
+<a href="https://github.com/jennysjaarda/proxyMR/blob/70b6430a77f90eeb818d8801626c6291c5441b34/docs/figure/final_phenotype_list.Rmd/IV_freq-1.png" target="_blank">70b6430</a>
+</td>
+  <td>
+Jenny Sjaarda
+</td>
+  <td>
+2021-09-14
+</td>
+  </tr>
+  </tbody>
+  </table>
+  </div>
+  </div>
+  
+<p><img src="figure/final_phenotype_list.Rmd/IV_freq-2.png" width="672" style="display: block; margin: auto;" /></p>
+<p>
+  <button type="button" class="btn btn-default btn-xs btn-workflowr btn-workflowr-fig"
+  data-toggle="collapse" data-target="#fig-IV_freq-2">
+  
+Past versions of IV_freq-2.png
+</button>
+  </p>
+
+<div id="fig-IV_freq-2" class="collapse">
+  <div class="table-responsive">
+  <table class="table table-condensed table-hover">
+  <thead>
+  <tr>
+  <th>
+Version
+</th>
+  <th>
+Author
+</th>
+  <th>
+Date
+</th>
+  </tr>
+  </thead>
+  <tbody>
+  <tr>
+  <td>
+<a href="https://github.com/jennysjaarda/proxyMR/blob/70b6430a77f90eeb818d8801626c6291c5441b34/docs/figure/final_phenotype_list.Rmd/IV_freq-2.png" target="_blank">70b6430</a>
+</td>
+  <td>
+Jenny Sjaarda
+</td>
+  <td>
+2021-09-14
+</td>
+  </tr>
+  </tbody>
+  </table>
+  </div>
+  </div>
+  
+
+
 <br>
 <p>
 <button type="button" class="btn btn-default btn-workflowr btn-workflowr-sessioninfo"
@@ -853,24 +952,25 @@ other attached packages:
 [13] targets_0.5.0.9001 workflowr_1.6.2   
 
 loaded via a namespace (and not attached):
- [1] Rcpp_1.0.6        lubridate_1.7.10  ps_1.6.0          assertthat_0.2.1 
- [5] rprojroot_2.0.2   digest_0.6.27     utf8_1.2.1        R6_2.5.0         
- [9] cellranger_1.1.0  backports_1.2.1   reprex_2.0.0      evaluate_0.14    
-[13] highr_0.9         httr_1.4.2        pillar_1.6.1      rlang_0.4.11     
-[17] lazyeval_0.2.2    readxl_1.3.1      rstudioapi_0.13   data.table_1.14.0
-[21] whisker_0.4       callr_3.7.0       rmarkdown_2.9     labeling_0.4.2   
-[25] htmlwidgets_1.5.3 igraph_1.2.6      munsell_0.5.0     broom_0.7.7      
-[29] compiler_4.1.0    httpuv_1.6.1      modelr_0.1.8      xfun_0.24        
-[33] pkgconfig_2.0.3   htmltools_0.5.1.1 tidyselect_1.1.1  codetools_0.2-18 
-[37] viridisLite_0.4.0 fansi_0.5.0       crayon_1.4.1      dbplyr_2.1.1     
-[41] withr_2.4.2       later_1.2.0       grid_4.1.0        jsonlite_1.7.2   
-[45] gtable_0.3.0      lifecycle_1.0.0   DBI_1.1.1         git2r_0.28.0     
-[49] magrittr_2.0.1    scales_1.1.1      cli_2.5.0         stringi_1.6.2    
-[53] farver_2.1.0      renv_0.13.2-62    fs_1.5.0          promises_1.2.0.1 
-[57] xml2_1.3.2        ellipsis_0.3.2    generics_0.1.0    vctrs_0.3.8      
-[61] tools_4.1.0       glue_1.4.2        crosstalk_1.1.1   hms_1.1.0        
-[65] processx_3.5.2    yaml_2.2.1        colorspace_2.0-1  rvest_1.0.0      
-[69] haven_2.4.1      </code></pre>
+ [1] httr_1.4.2        sass_0.4.0        jsonlite_1.7.2    viridisLite_0.4.0
+ [5] modelr_0.1.8      bslib_0.3.0       assertthat_0.2.1  highr_0.9        
+ [9] renv_0.13.2-62    cellranger_1.1.0  yaml_2.2.1        pillar_1.6.1     
+[13] backports_1.2.1   glue_1.4.2        digest_0.6.27     promises_1.2.0.1 
+[17] rvest_1.0.0       colorspace_2.0-1  htmltools_0.5.2   httpuv_1.6.1     
+[21] pkgconfig_2.0.3   broom_0.7.7       haven_2.4.1       scales_1.1.1     
+[25] processx_3.5.2    whisker_0.4       later_1.2.0       git2r_0.28.0     
+[29] farver_2.1.0      generics_0.1.0    ellipsis_0.3.2    withr_2.4.2      
+[33] lazyeval_0.2.2    cli_2.5.0         magrittr_2.0.1    crayon_1.4.1     
+[37] readxl_1.3.1      evaluate_0.14     ps_1.6.0          fs_1.5.0         
+[41] fansi_0.5.0       xml2_1.3.2        tools_4.1.0       data.table_1.14.0
+[45] hms_1.1.0         lifecycle_1.0.0   munsell_0.5.0     reprex_2.0.0     
+[49] callr_3.7.0       compiler_4.1.0    jquerylib_0.1.4   rlang_0.4.11     
+[53] grid_4.1.0        rstudioapi_0.13   htmlwidgets_1.5.3 crosstalk_1.1.1  
+[57] igraph_1.2.6      labeling_0.4.2    rmarkdown_2.11.2  gtable_0.3.0     
+[61] codetools_0.2-18  DBI_1.1.1         R6_2.5.0          lubridate_1.7.10 
+[65] fastmap_1.1.0     utf8_1.2.1        rprojroot_2.0.2   stringi_1.6.2    
+[69] Rcpp_1.0.6        vctrs_0.3.8       dbplyr_2.1.1      tidyselect_1.1.1 
+[73] xfun_0.24        </code></pre>
 </div>
 
 
